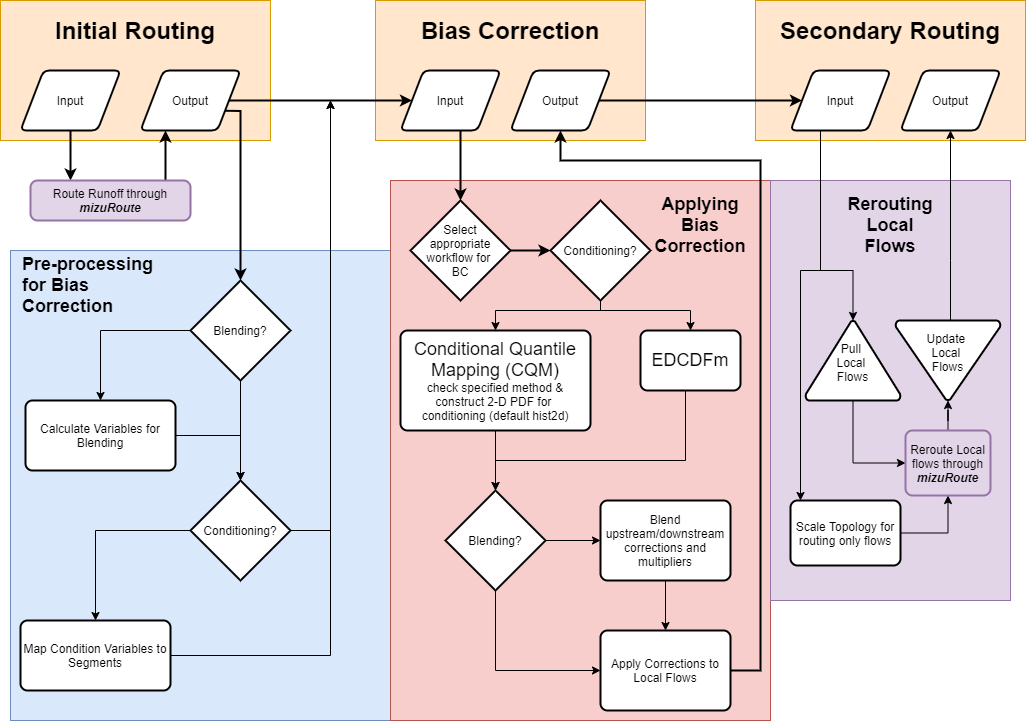
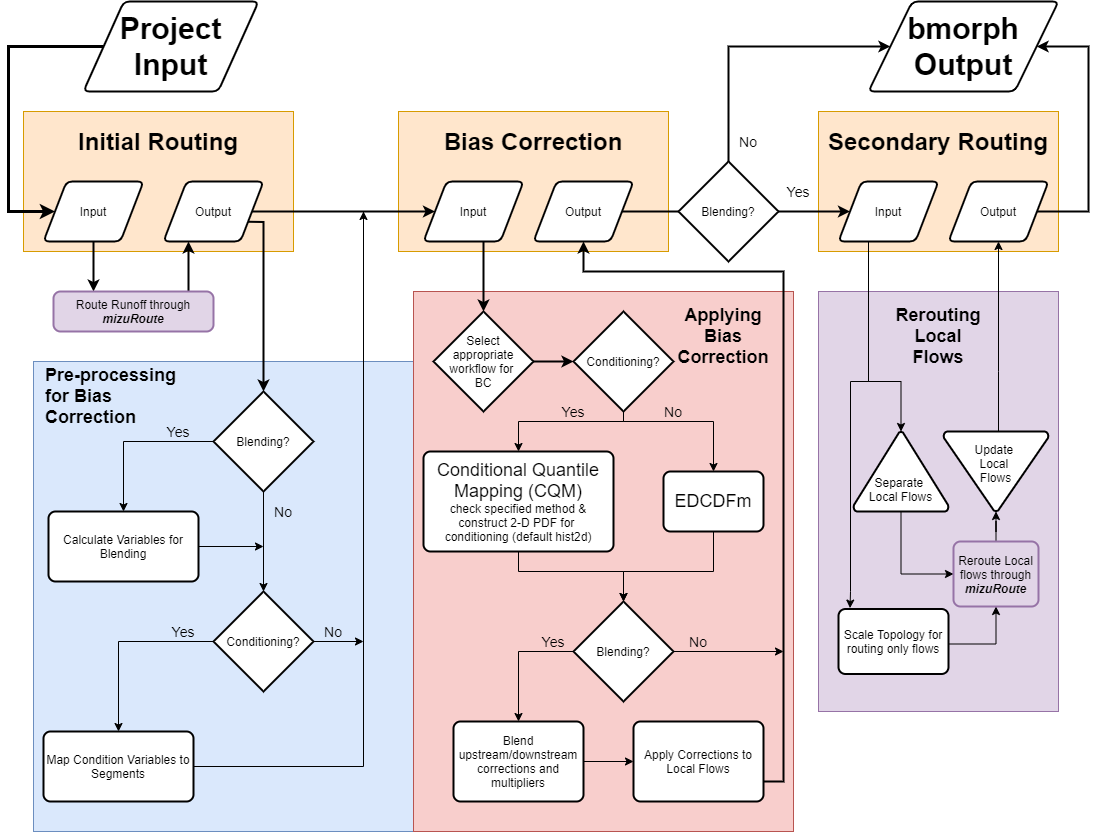
Fixed bmorph full workflow flowchart and edited a hyperlink on the index page

diff --git a/docs/index.rst b/docs/index.rst
@@ -5,7 +5,7 @@ bmorph
 
 ``bmorph`` is repository of bias correction methodologies designed to reduce statistical bias in streamflow models for watersheds. As a post-processing method, ``bmorph`` works in tandem with the streamflow model `mizuroute <https://mizuroute.readthedocs.io/en/latest/>`_. ``bmorph`` provides methods for integrating meteorologic sensitivity into the bias correction process and preserves  spatial relationships imposed by the channel network to ensure spatial consistency between gauge sites throughout bias correction. 
 
-In `Bias Correction <https://bmorph.readthedocs.io/en/develop/bias_correction.html>`_ we discuss the theory behind ``bmorph`` to develop a more intrinsic understanding of how it performs bias correction. The `Tutorial <https://bmorph.readthedocs.io/en/develop/bmorph_tutorial.html>`_ walks you through an example implementation of ``bmorph``. While the `API Reference <api.rst>`_ delves into the functions themselves, `Package Overview <overview.rst>`_ will get you aquinted with the ``bmorph`` pack structure while `Data Overview <https://bmorph.readthedocs.io/en/develop/data.html>`_, `Input Specifications <https://bmorph.readthedocs.io/en/develop/data.html#input-specifications>`_, and `Output Specifications <https://bmorph.readthedocs.io/en/develop/data.html#output-specifications>`_ will cover the ins and outs of the overall workflow.
+In `Bias Correction <https://bmorph.readthedocs.io/en/develop/bias_correction.html>`_ we discuss the theory behind ``bmorph`` to develop a more intrinsic understanding of how it performs bias correction. The `Tutorial <https://bmorph.readthedocs.io/en/develop/bmorph_tutorial.html>`_ walks you through an example implementation of ``bmorph``. While the `API Reference <https://bmorph.readthedocs.io/en/develop/api.html>`_ delves into the functions themselves, `Package Overview <overview.rst>`_ will get you aquinted with the ``bmorph`` pack structure while `Data Overview <https://bmorph.readthedocs.io/en/develop/data.html>`_, `Input Specifications <https://bmorph.readthedocs.io/en/develop/data.html#input-specifications>`_, and `Output Specifications <https://bmorph.readthedocs.io/en/develop/data.html#output-specifications>`_ will cover the ins and outs of the overall workflow.
 
 Installation
 ============
